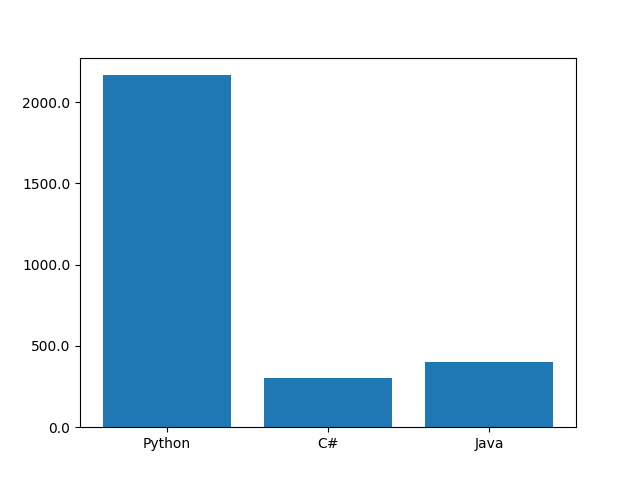
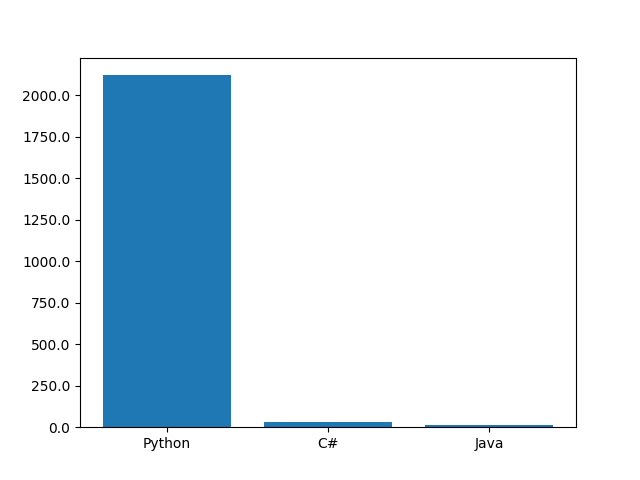
Practice02: excercise 04 Java code added

diff --git a/ITMO2022.Python/Practice02/Ex04/DgemmCalc.java b/ITMO2022.Python/Practice02/Ex04/DgemmCalc.java
@@ -1,0 +1,133 @@
+package DgemmCalc;
+
+import java.io.BufferedReader;
+import java.io.FileReader;
+import java.util.ArrayList;
+import java.util.Arrays;
+import java.util.List;
+
+public class DgemmCalc {
+    public double[][] loadMatrix(String fileName) {
+
+        String pathName = "C:\\Users\\aqml\\IdeaProjects\\DgemCalc\\Data\\";
+        List<String[]> rowList = new ArrayList<String[]>();
+        try (BufferedReader br = new BufferedReader(new FileReader(pathName + fileName))) {
+            String line;
+            while ((line = br.readLine()) != null) {
+                String[] lineItems = line.split(",");
+                rowList.add(lineItems);
+            }
+        } catch (Exception e) {
+            System.out.println("some exception");
+        }
+        String[][] matrix = new String[rowList.size()][];
+        for (int i = 0; i < rowList.size(); i++) {
+            String[] row = rowList.get(i);
+            matrix[i] = row;
+        }
+
+        int tableStringLength = matrix.length;
+        double[][] matrixDouble = new double[tableStringLength][tableStringLength];
+        for (int i = 0; i < tableStringLength; i++) {
+            for (int j = 0; j < tableStringLength; j++) {
+                matrixDouble[i][j] = Double.parseDouble(matrix[i][j]);
+            }
+        }
+        return matrixDouble;
+    }
+
+    public double[][] matrices_multiply(double[][] matrix_a, double[][] matrix_b) {
+        int matrixSize = matrix_a.length;
+        double[][] multipliedArray = new double[matrixSize][matrixSize];
+
+        for (int row = 0; row < matrixSize; row++) {
+            for (int col = 0; col < matrixSize; col++) {
+                multipliedArray[row][col] = 0;
+                for (int i = 0; i < matrixSize; i++) {
+                    multipliedArray[row][col] += matrix_a[row][i] * matrix_b[i][col];
+                }
+            }
+        }
+        return multipliedArray;
+    }
+
+    public double[][] multiply_matrix_by_scalar(double[][] matrix_a, double scalar) {
+        int matrixSize = matrix_a.length;
+        double[][] multipliedArray = new double[matrixSize][matrixSize];
+
+        for (int row = 0; row < matrixSize; row++) {
+            for (int col = 0; col < matrixSize; col++) {
+                multipliedArray[row][col] = 0;
+                for (int i = 0; i < matrixSize; i++) {
+                    multipliedArray[row][col] *= scalar;
+                }
+            }
+        }
+        return matrix_a;
+    }
+
+    public double[][] matrices_sum(double[][] matrix_a, double[][] matrix_b) {
+        int matrixSize = matrix_a.length;
+        double[][] sumArray = new double[matrixSize][matrixSize];
+
+        int i, j;
+        for (i = 0; i < matrixSize; i++)
+            for (j = 0; j < matrixSize; j++)
+                sumArray[i][j] = matrix_a[i][j] + matrix_b[i][j];
+
+        return sumArray;
+    }
+
+    public double[][] dgemm_calcs(double[][] matrix_a, double[][] matrix_b, double[][] matrix_c, double alpha, double betta) {
+        double[][] matrix_ab = matrices_multiply(matrix_a, matrix_b);
+        double[][] matrix_a_b_alpha = multiply_matrix_by_scalar(matrix_ab, alpha);
+        double[][] matrix_c_betta = multiply_matrix_by_scalar(matrix_ab, betta);
+        double[][] matrix_a_b_alpha_added_matrix_c_betta = matrices_sum(matrix_a_b_alpha, matrix_c_betta);
+
+//        int rowLength = matrix_a_b_alpha_added_matrix_c_betta.length;
+//        int colLength = matrix_a_b_alpha_added_matrix_c_betta.length;
+//
+//        for (int i = 0; i < rowLength; i++) {
+//            for (int j = 0; j < colLength; j++) {
+//                System.out.println(matrix_a_b_alpha_added_matrix_c_betta[i][j]);
+//            }
+//            System.out.println();
+//        }
+        return matrix_a_b_alpha_added_matrix_c_betta;
+    }
+
+    public double[][] dgemm_calcs_multithreading(double[][] matrix_a, double[][] matrix_b, double[][] matrix_c,
+                                                 double alpha, double betta) throws InterruptedException {
+
+        Thread[] ts = new Thread[4];
+        double[][] matrix_ab = null;
+
+        for (int i = 0; i < ts.length; i++) {
+            ts[i] = new Thread();
+            matrix_ab = matrices_multiply(matrix_a, matrix_b);
+            ts[i].start();
+        }
+        for (int i = 0; i < ts.length; i++) {
+            ts[i].join();
+        }
+
+
+        //double[,] matrix_ab = matrices_multiply(matrix_a, matrix_b);
+        double[][] matrix_a_b_alpha = multiply_matrix_by_scalar(matrix_ab, alpha);
+        double[][] matrix_c_betta = multiply_matrix_by_scalar(matrix_ab, betta);
+        double[][] matrix_a_b_alpha_added_matrix_c_betta = matrices_sum(matrix_a_b_alpha, matrix_c_betta);
+
+//        int rowLength = matrix_a_b_alpha_added_matrix_c_betta.length;
+//        int colLength = matrix_a_b_alpha_added_matrix_c_betta.length;
+//
+//        for (int i = 0; i < rowLength; i++) {
+//            for (int j = 0; j < colLength; j++) {
+//                System.out.println(matrix_a_b_alpha_added_matrix_c_betta[i][j]);
+//            }
+//            System.out.println();
+//        }
+
+        return matrix_a_b_alpha_added_matrix_c_betta;
+    }
+}
+

diff --git a/ITMO2022.Python/Practice02/Ex04/Program.java b/ITMO2022.Python/Practice02/Ex04/Program.java
@@ -1,0 +1,32 @@
+package DgemmCalc;
+
+import java.util.Scanner;
+
+public class Program {
+    public static void main(String[] args) throws InterruptedException {
+        DgemmCalc calc = new DgemmCalc();
+        double[][] matrix_a_double = calc.loadMatrix("matrix_a_float.csv");
+        double[][] matrix_b_double = calc.loadMatrix("matrix_b_float.csv");
+        var matrix_c_double = calc.loadMatrix("matrix_c_float.csv");
+
+        calc.matrices_multiply(matrix_a_double, matrix_b_double);
+
+        Scanner sc= new Scanner(System.in);
+        System.out.println("Введите значение alpha");
+        double alpha = Double.parseDouble(sc.nextLine());
+        System.out.println("Введите значение betta");
+        double betta = Double.parseDouble(sc.nextLine());
+
+
+        long startTime = System.currentTimeMillis();
+        var resultedMatrix = calc.dgemm_calcs(matrix_a_double, matrix_b_double, matrix_c_double, alpha, betta);
+        long endTime = System.currentTimeMillis();
+        System.out.println(endTime - startTime);
+
+        startTime = System.currentTimeMillis();
+        var resultedMatrix2 = calc.dgemm_calcs_multithreading(matrix_a_double, matrix_b_double, matrix_c_double, alpha, betta);
+        endTime = System.currentTimeMillis();
+        System.out.println(endTime - startTime);
+
+    }
+}

diff --git a/ITMO2022.Python/Practice02/Ex04/functions.py b/ITMO2022.Python/Practice02/Ex04/functions.py
@@ -93,9 +93,7 @@ def get_statistics(time_lst, path_to_file):
 
 
 def graphics_create(time_median_value):
-    final_stat = [time_median_value, 320, 400]
-
-    # money = [1.5e5, 2.5e6, 5.5e6, 2.0e7]
+    final_stat = [time_median_value, 32, 12]
 
     def axis_format(x, pos):
         return '{:1.1f}'.format(x)

diff --git a/ITMO2022.Python/Practice02/Ex04/resultedStatistics.py b/ITMO2022.Python/Practice02/Ex04/resultedStatistics.py
@@ -42,7 +42,6 @@ time_median_value_python = get_statistics(time_lst, statistics_path_float)
 save_matrix_to_csv(matrix_d_float, file_path_matrix_d_float)
 graphics_create(time_median_value_python)
 
-
 # Matrices multiplication with a multithreading
 
 time_lst = [time() * 1000]
